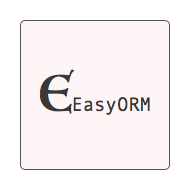
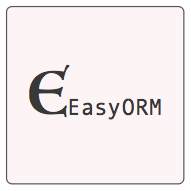
img

Changed region(s): [[0.1053, 0.1053, 0.8947, 0.8947], [0.0263, 0.0263, 0.9737, 0.9737]]

diff --git a/src/css/product.less b/src/css/product.less
@@ -9,10 +9,14 @@ body.product {
     }
     .main-list {
         .clear;
+        padding-top: 2em;
         .item {
             .logo {
                 float: left;
-                width: 40em;
+                width: 37em;
+                img {
+                    background: @_border_light;
+                }
             }
             .content {
                 .clear;

diff --git a/css/app.css b/css/app.css
@@ -688,10 +688,14 @@ body.product .main-intro {
 body.product .main-list {
   overflow: auto;
   zoom: 1;
+  padding-top: 2em;
 }
 body.product .main-list .item .logo {
   float: left;
-  width: 40em;
+  width: 37em;
+}
+body.product .main-list .item .logo img {
+  background: #e8e8e8;
 }
 body.product .main-list .item .content {
   overflow: auto;
